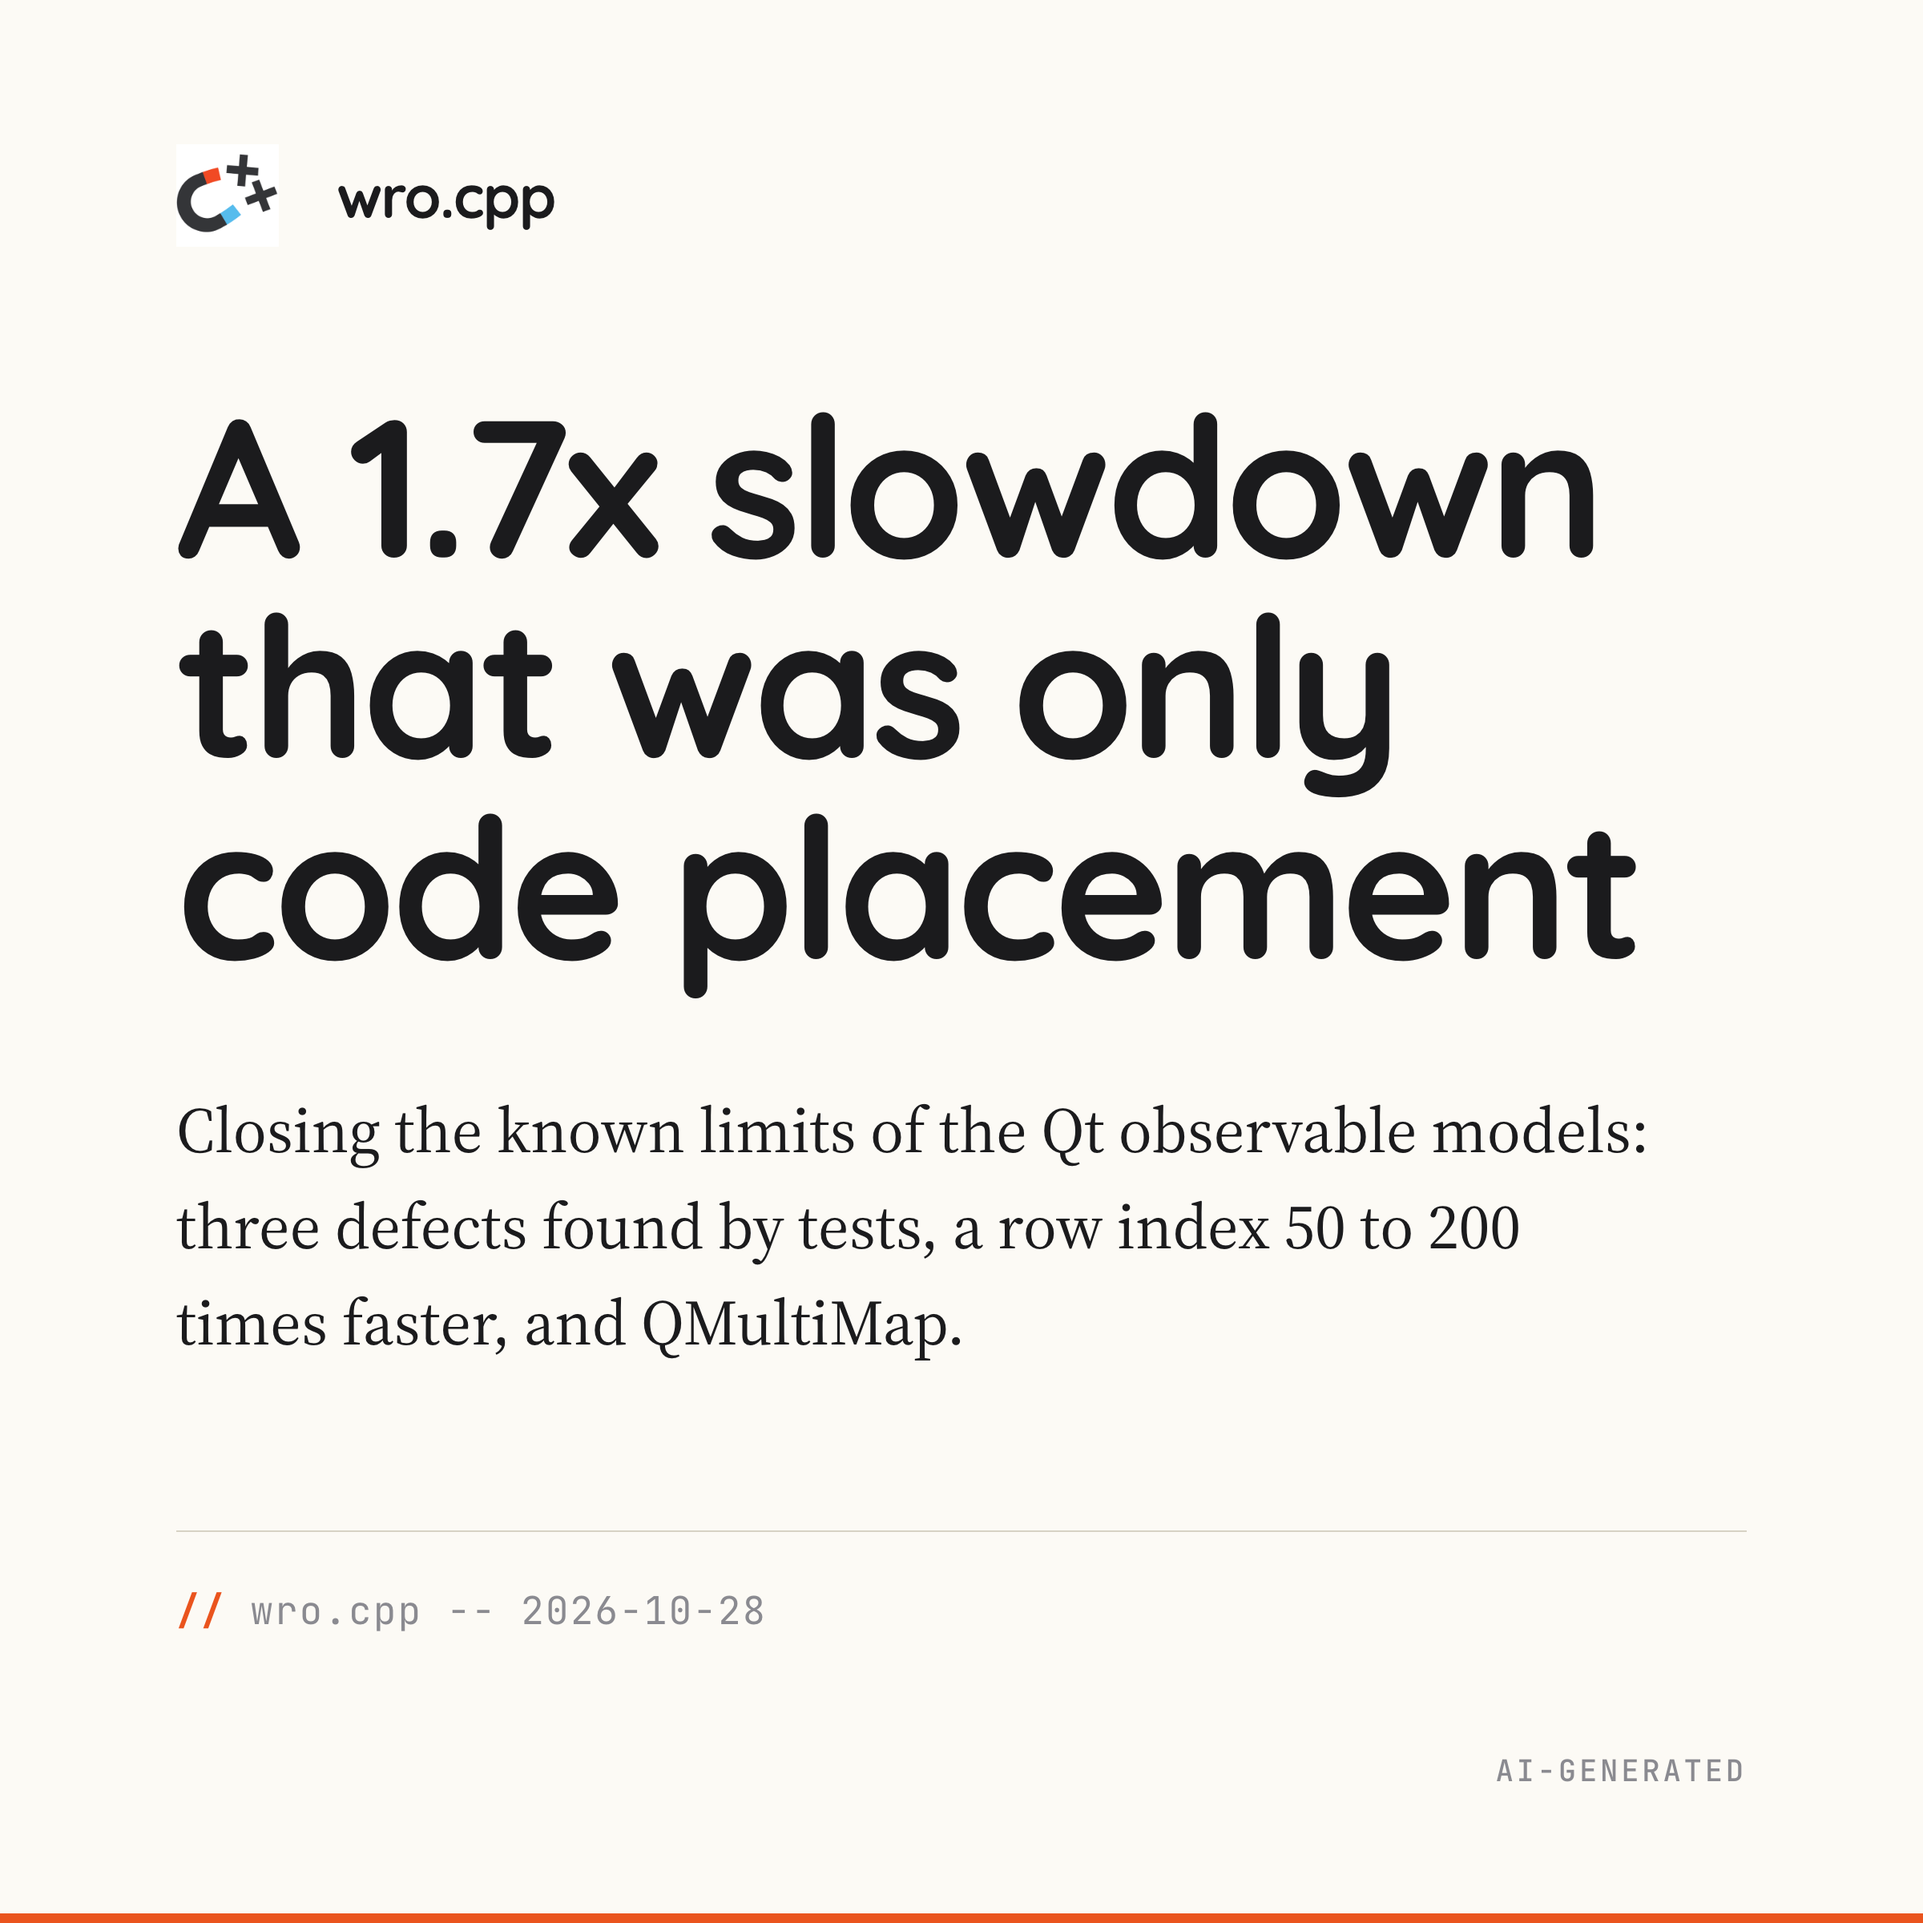
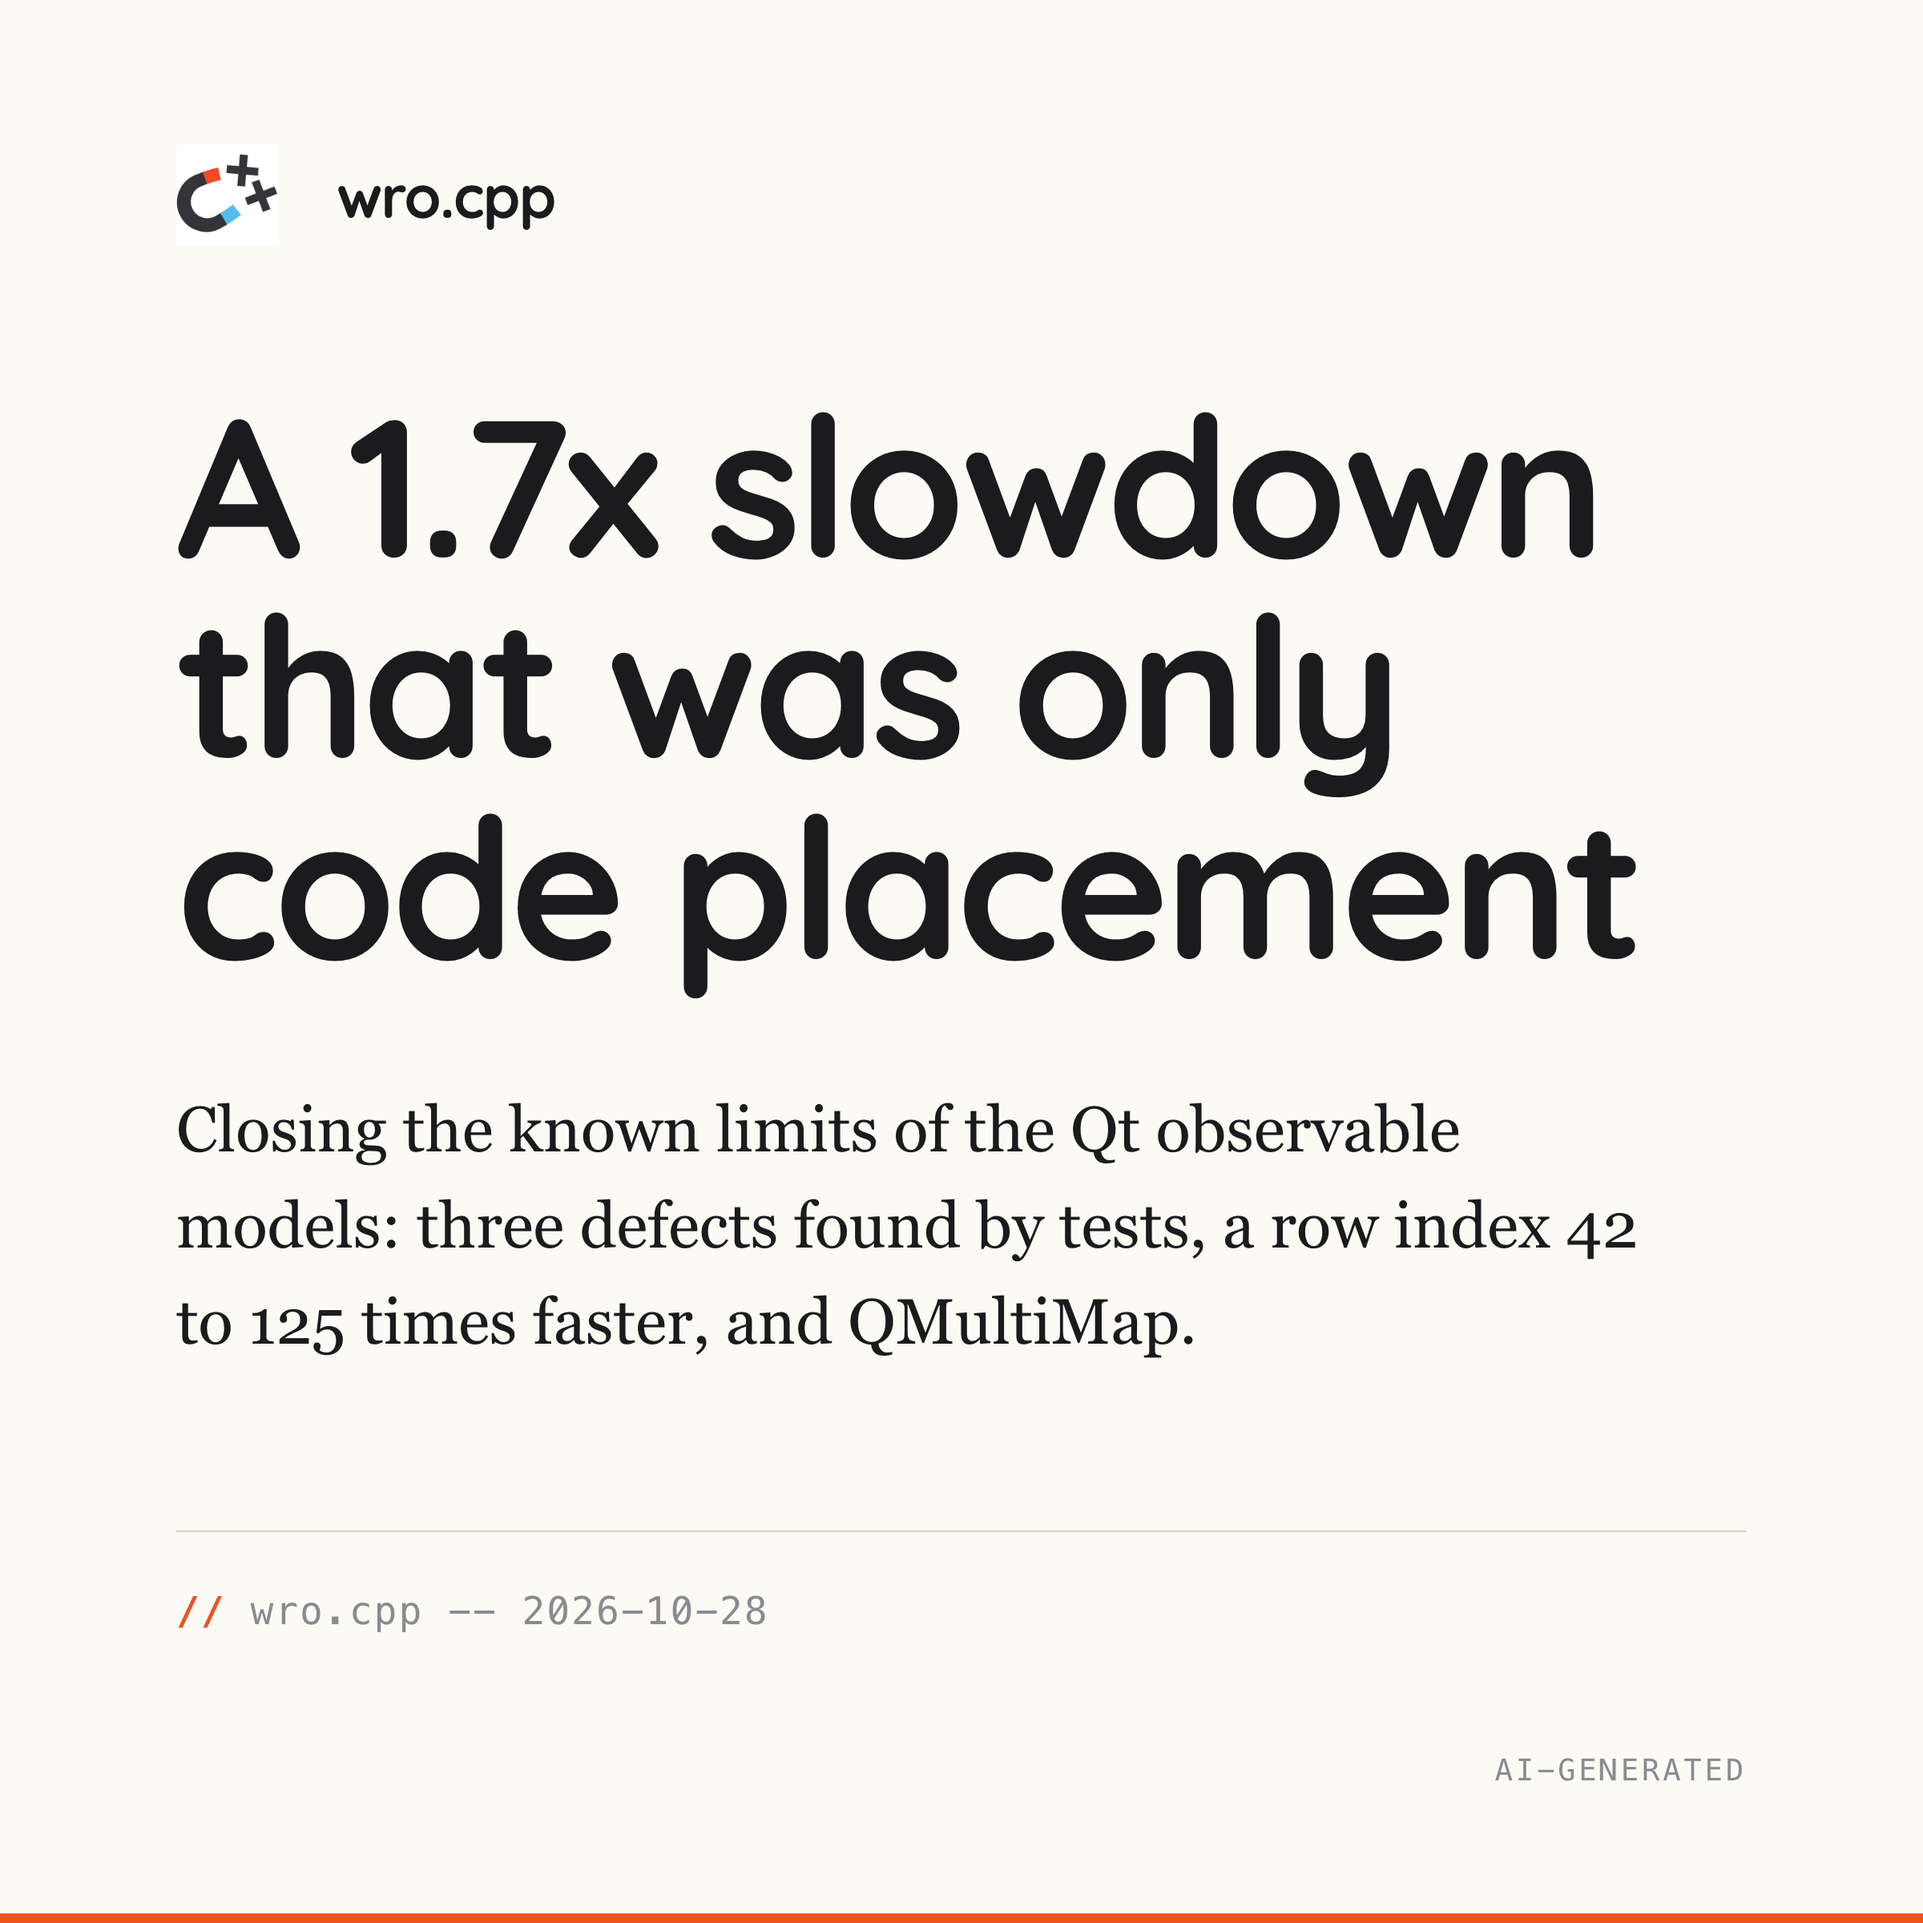
fix(post): the row index gain on one machine, in the post, captions and card
42 to 125 times on the x86_64 runner, to match the first post.

Changed region(s): [[0.0938, 0.5625, 0.8438, 0.7188], [0.8125, 0.9062, 0.875, 0.9375]]

diff --git a/social/facebook/qt-observable-models-known-limits/index.html b/social/facebook/qt-observable-models-known-limits/index.html
@@ -23,6 +23,6 @@
   </defs>
 </svg>
 
-<section class="card card-insight dark"><div class="grid-bg"></div><div class="glow"></div><div class="insight-content"><h1>A 1.7x slowdown that was only code placement</h1><p>Closing the known limits of the Qt observable models: three defects found by tests, a row index 50 to 200 times faster, and QMultiMap.</p><div class="insight-citation">wro.cpp -- 2026-10-28</div></div><div class="logo-watermark top-left"><svg viewBox="0 0 512 512" aria-hidden="true"><use href="#scudo-logo"/></svg><span class="logo-wordmark">ScudoAI</span></div><div class="ai-badge">AI-generated</div></section>
+<section class="card card-insight dark"><div class="grid-bg"></div><div class="glow"></div><div class="insight-content"><h1>A 1.7x slowdown that was only code placement</h1><p>Closing the known limits of the Qt observable models: three defects found by tests, a row index 42 to 125 times faster, and QMultiMap.</p><div class="insight-citation">wro.cpp -- 2026-10-28</div></div><div class="logo-watermark top-left"><svg viewBox="0 0 512 512" aria-hidden="true"><use href="#scudo-logo"/></svg><span class="logo-wordmark">ScudoAI</span></div><div class="ai-badge">AI-generated</div></section>
 </body>
 </html>

diff --git a/social/linkedin/qt-observable-models-known-limits/index.html b/social/linkedin/qt-observable-models-known-limits/index.html
@@ -23,6 +23,6 @@
   </defs>
 </svg>
 
-<section class="card card-insight dark"><div class="grid-bg"></div><div class="glow"></div><div class="insight-content"><h1>A 1.7x slowdown that was only code placement</h1><p>Closing the known limits of the Qt observable models: three defects found by tests, a row index 50 to 200 times faster, and QMultiMap.</p><div class="insight-citation">wro.cpp -- 2026-10-28</div></div><div class="logo-watermark top-left"><svg viewBox="0 0 512 512" aria-hidden="true"><use href="#scudo-logo"/></svg><span class="logo-wordmark">ScudoAI</span></div><div class="ai-badge">AI-generated</div></section>
+<section class="card card-insight dark"><div class="grid-bg"></div><div class="glow"></div><div class="insight-content"><h1>A 1.7x slowdown that was only code placement</h1><p>Closing the known limits of the Qt observable models: three defects found by tests, a row index 42 to 125 times faster, and QMultiMap.</p><div class="insight-citation">wro.cpp -- 2026-10-28</div></div><div class="logo-watermark top-left"><svg viewBox="0 0 512 512" aria-hidden="true"><use href="#scudo-logo"/></svg><span class="logo-wordmark">ScudoAI</span></div><div class="ai-badge">AI-generated</div></section>
 </body>
 </html>

diff --git a/social/linkedin/qt-observable-models-known-limits/caption.md b/social/linkedin/qt-observable-models-known-limits/caption.md
@@ -5,7 +5,7 @@ The first post on observable Qt containers ended with a list of ten limits. This
 
 Tests written for the limits found three defects. A list model answered the key role with the row, which shifts without a signal, so a sorting proxy went stale. A pointer to a class template specialization aborted Qt because GCC spells the name differently from Qt's normalizer. And a 1.7 times slowdown in hash removal on x86_64 turned out to be the same scan loop landing across a 32-byte boundary in one build.
 
-A row index then made a change 50 to 200 times cheaper at 100,000 entries for a hash and 10,000 for a map, and QMultiMap and QMultiHash now work with an entry named by its key and occurrence. The speed numbers come from one Mac and one CI runner, nothing ran on clang, and I still have not seen the code that started this.
+A row index then made a change 42 to 125 times cheaper at 100,000 entries for a hash and 10,000 for a map, and QMultiMap and QMultiHash now work with an entry named by its key and occurrence. The speed numbers come from one Mac and one CI runner, nothing ran on clang, and I still have not seen the code that started this.
 
 https://wrocpp.github.io/posts/qt-observable-models-known-limits/
 

diff --git a/social/facebook/qt-observable-models-known-limits/caption.md b/social/facebook/qt-observable-models-known-limits/caption.md
@@ -5,7 +5,7 @@ Ten limits were left open in the last Qt post. Most are closed now, and tests fo
 
 The most instructive one: a hash removal that looked 1.7 times slower with typed signals was the same loop landing across a 32-byte boundary in one build. Padding either build made them equal.
 
-A row index also makes a change 50 to 200 times cheaper at large sizes, and QMultiMap works.
+A row index also makes a change 42 to 125 times cheaper at large sizes, and QMultiMap works.
 
 https://wrocpp.github.io/posts/qt-observable-models-known-limits/
 

diff --git a/social/facebook/qt-observable-models-known-limits/content.md b/social/facebook/qt-observable-models-known-limits/content.md
@@ -6,7 +6,7 @@ template: social/linkedin-post
 
 :::insight{citation="wro.cpp -- 2026-10-28"}
 # A 1.7x slowdown that was only code placement
-Closing the known limits of the Qt observable models: three defects found by tests, a row index 50 to 200 times faster, and QMultiMap.
+Closing the known limits of the Qt observable models: three defects found by tests, a row index 42 to 125 times faster, and QMultiMap.
 :::
 
 ::::

diff --git a/social/linkedin/qt-observable-models-known-limits/content.md b/social/linkedin/qt-observable-models-known-limits/content.md
@@ -6,7 +6,7 @@ template: social/linkedin-post
 
 :::insight{citation="wro.cpp -- 2026-10-28"}
 # A 1.7x slowdown that was only code placement
-Closing the known limits of the Qt observable models: three defects found by tests, a row index 50 to 200 times faster, and QMultiMap.
+Closing the known limits of the Qt observable models: three defects found by tests, a row index 42 to 125 times faster, and QMultiMap.
 :::
 
 ::::
